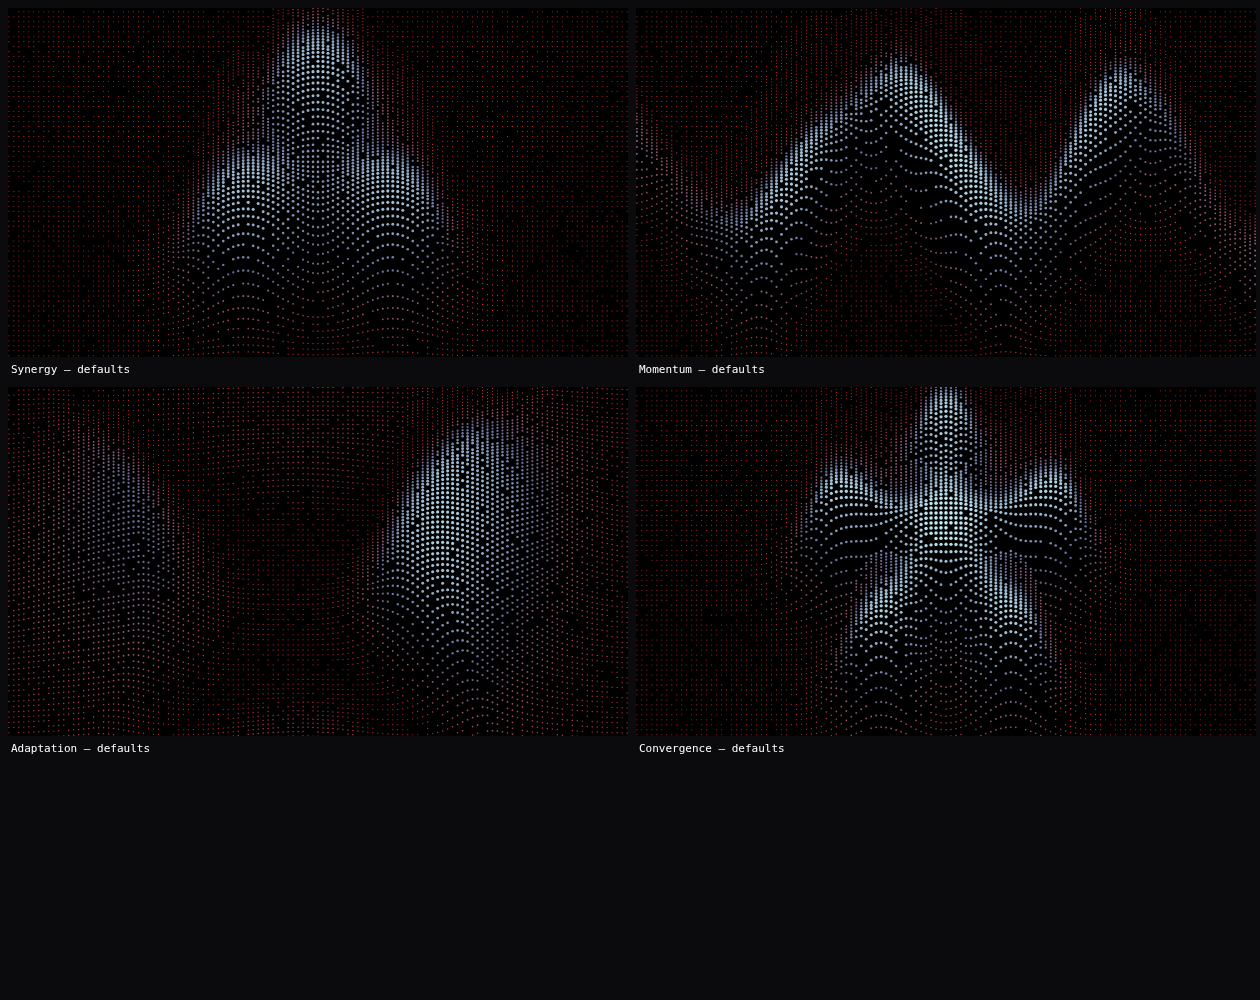
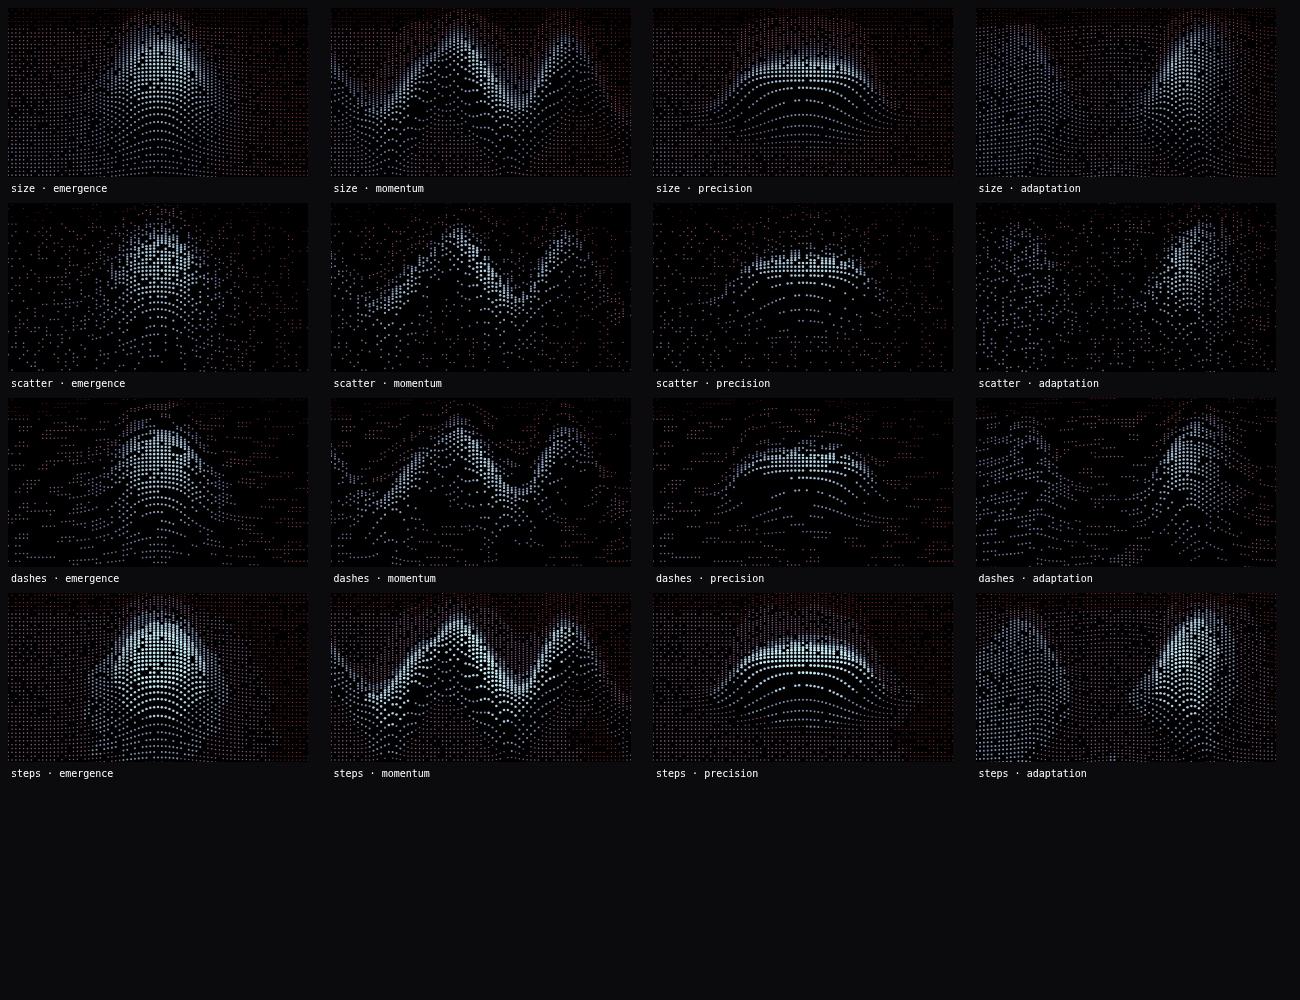
Give the form a structural job, so a photograph cannot flatten the twelve
An image supplied the tone and the preset only displaced the rows, so once a
picture was loaded the tone carried nearly all of the look and the twelve
collapsed towards each other again. Splitting tone from wave was not enough on
its own — the wave is too quiet to carry a preset by itself.

Adds Texture: how a form becomes marks. Size is the plain halftone. The other
three hand the form structure rather than tone — scatter thins the dots out
where the form is weak so they cluster and leave voids, dashes breaks each row
into runs that stand or fall together, and steps lands the sizes on a few levels
with the form shifting where the bands fall, so the terracing follows its
contours. Structure survives a photograph in a way that tone cannot, so the
preset still reads.

Twelve forms against four textures, and the tone blend now defaults to half and
half so the form tints the tone as well.

Verified in the app with a photograph loaded: twelve texture and preset
combinations, all 66 pairs render differently, 0 identical, and SVG export
still works.

Changed region(s): [[0.0, 0.0, 1.0, 0.775]]

diff --git a/js/generate.js b/js/generate.js
@@ -27,6 +27,7 @@ var DG = window.DG || (window.DG = {});
     copies: 6,            // how many copies when it repeats
     waveHeight: 0.5,      // how far the form displaces its rows
     waveMode: 'ridge',    // ridge (rows ride over the surface) | bulge (rows open around it)
+    texture: 'size',      // size | scatter | dashes | steps — how the form becomes dots
     angularity: 0,        // 0 round, 1 straight-sided — how angular the form is
     facetSides: 6,        // how many sides when it is angular
     hideBehind: true,     // drop points the surface in front of them occludes
@@ -42,7 +43,7 @@ var DG = window.DG || (window.DG = {});
     gradientReverse: false,
     background: 'black',
     // Image mode
-    imageBlend: 'replace', // replace | average | multiply — how the image sets the tone
+    imageBlend: 'average', // replace | average | multiply — how the image sets the tone
     imageInvert: false,
     imageAmount: 1
   };
@@ -269,10 +270,32 @@ var DG = window.DG || (window.DG = {});
         var keep = 1 - p.densityFade * (1 - tone);
         if (hash2(iu, jv, p.seed + 7717) > keep) continue;
 
-        var r = maxR * (1 - p.sizeVariation + p.sizeVariation * tone);
+        /*
+         * How the form becomes marks. Size is the plain halftone; the other
+         * three hand the form a structural job — which dots survive, where the
+         * rows break, where the size banding falls — so the preset still shows
+         * through when a photograph is supplying the tone.
+         */
+        var size = tone;
+        if (p.texture === 'scatter') {
+          // Dots thin out where the form is weak, clustering because the form
+          // itself is smooth.
+          if (hash2(iu, jv, p.seed + 31) > 0.22 + 0.78 * form) continue;
+        } else if (p.texture === 'dashes') {
+          // Rows break into runs: a whole segment stands or falls together.
+          var seg = Math.floor((iu + jv * 5) / 4);
+          if (hash2(seg, jv, p.seed + 57) > 0.25 + 0.75 * form) continue;
+        } else if (p.texture === 'steps') {
+          // Size lands on a few levels, with the form shifting where the bands
+          // fall, so the terracing follows the form's contours.
+          var levels = 4;
+          size = Math.min(1, (Math.floor(tone * levels + form) + 0.5) / levels);
+        }
+
+        var r = maxR * (1 - p.sizeVariation + p.sizeVariation * size);
         if (r < 0.12) continue;
 
-        var dot = { x: x, y: y, r: r, v: tone, nx: (x - cx) / (width / 2), ny: (y - cy) / (height / 2) };
+        var dot = { x: x, y: y, r: r, v: size, nx: (x - cx) / (width / 2), ny: (y - cy) / (height / 2) };
         if (useGradient) {
           var t = DG.gradientCoord(p.gradientMap, dot);
           if (p.gradientReverse) t = 1 - t;

diff --git a/js/app.js b/js/app.js
@@ -124,6 +124,14 @@ var DG = window.DG || (window.DG = {});
           <aside class="panel panel-controls">
             <section>
               <h2>Grid</h2>
+              <${DG.Choice} label="Texture" value=${params.texture}
+                options=${[
+                  { id: 'size', label: 'Size — dot size follows the tone' },
+                  { id: 'scatter', label: 'Scatter — the form thins the dots out' },
+                  { id: 'dashes', label: 'Dashes — the form breaks the rows' },
+                  { id: 'steps', label: 'Steps — sizes land on a few levels' }
+                ]}
+                onChange=${function (v) { set({ texture: v }); }} />
               <${DG.Slider} label="Point density" value=${params.pointDensity} min=${6} max=${120} step=${1}
                 format=${function (v) { return v + ' across'; }}
                 onChange=${function (v) { set({ pointDensity: v }); }} />
@@ -204,8 +212,9 @@ var DG = window.DG || (window.DG = {});
             <section>
               <h2>Image mode</h2>
               <p class="hint">
-                Light in the image drives dot size and density. The wave stays the
-                preset's own, so each of the twelve shapes the picture differently.
+                Light in the image drives dot size and density. The wave and the
+                texture stay the preset's own, so each of the twelve shapes the
+                picture differently.
               </p>
               <input ref=${fileRef} type="file" accept="image/*" onChange=${onFile} />
               ${image && html`
@@ -226,8 +235,8 @@ var DG = window.DG || (window.DG = {});
                     <span class="ctrl-head"><span>Tone from the image</span></span>
                     <select value=${params.imageBlend}
                       onChange=${function (e) { set({ imageBlend: e.target.value }); }}>
-                      <option value="replace">All of it</option>
                       <option value="average">Half, mixed with the pattern</option>
+                      <option value="replace">All of it</option>
                       <option value="multiply">Only inside the pattern</option>
                     </select>
                   </label>

diff --git a/README.md b/README.md
@@ -82,8 +82,8 @@ density contours, so its dots trace the shape's iso-lines.
 
 The frame is 16:9.
 
-**Grid** — point density (6–120 points across the frame, independent of how big
-the form is), dot size, **dot size variation** (the extent of the difference
+**Grid** — **texture**, point density (6–120 points across the frame,
+independent of how big the form is), dot size, **dot size variation** (the extent of the difference
 between the smallest and largest dot; at 0 every dot is the same size and only
 density carries the form), depth contrast (gamma on the height before it becomes
 size), density falloff (how much the form thins the points out), jitter and seed.
@@ -121,9 +121,19 @@ Four backgrounds.
 The angular mapping runs the ramp out and back rather than round the full
 circle, so both ends land on the same colour instead of meeting as a hard seam.
 
+**Texture** is how a form becomes marks, and it is what gives the twelve their
+range. *Size* is the plain halftone, dot size following the tone. The other
+three hand the form a structural job instead: *scatter* thins the dots out where
+the form is weak, so they cluster and leave voids; *dashes* breaks each row into
+runs that stand or fall together; *steps* lands the sizes on a few levels with
+the form shifting where the bands fall, so the terracing follows its contours.
+Because those are structural, they survive a photograph supplying the tone —
+twelve forms against four textures, each combination its own thing.
+
 **Image mode** — upload an image and its luminance drives dot size and density.
 
-The image supplies the **tone** only; the **wave stays the preset's own**. Those
+The image supplies the **tone** only; the **wave and the texture stay the
+preset's own**. Those
 are two different jobs and folding them into one number let the picture swamp
 the form, so every preset came out looking much the same once an image was
 loaded. Kept apart, the photograph sets how big each dot is while each of the
